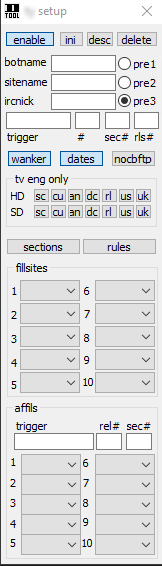
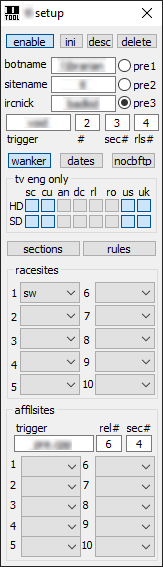
v.8.2.3

Changed region(s): [[0.0, 0.0, 1.0, 1.0], [0.8642, 0.0, 0.9568, 0.03]]

diff --git a/SiteSetup.html b/SiteSetup.html
@@ -153,7 +153,7 @@ aktiviert.<br>
       <strong>- tv eng only</strong><br>
       Hiermit legt man fest was in TV Eng alles geschoben werden darf 
 bzw. worauf es limitiert werden soll. (sc=scripted, cu=current, 
-an=anime, dc=docu, rl=reality, us=USA, uk= UnitedKingdom) </p>
+an=anime, dc=docu, rl=reality, ro=romance, us=USA, uk= UnitedKingdom) </p>
       <p class="normalschrift">- <strong>fillsites/affils</strong><br />
         Hier werden die Sites eingetragen zu denen gefillt werden soll. Wählt man den Eintrag -none- wird die Site wieder entfernt. Wählt man den Eintrag -cb.rmv- wird die Site auch in cbftp von den targets entfernt.<br />
         Bei Affils ist die config  ähnlich wie 
@@ -314,7 +314,7 @@ Eingabefeld stand, doppelt klicken), und entsprechend editieren, dann in
       <p class="normalschrift">&nbsp;</p>
       <p>&nbsp;</p></td>
     <td width="464" valign="top" align="center"><p>&nbsp;</p>
-      <p><img src="SiteSetup-Dateien/menu-site.png" width="162" height="566"></p>
+      <p><img src="SiteSetup-Dateien/menu-site.png" width="163" height="567"></p>
     <p>&nbsp;</p>
     <p><img src="SiteSetup-Dateien/menu-sections.png" width="365" height="567"><br />
       <br />

diff --git a/index.html b/index.html
@@ -143,7 +143,7 @@ body {
       <span class="KleinerText"><a href="https://d--tool-github-io.translate.goog/index.html?_x_tr_sl=de&amp;_x_tr_tl=en&amp;_x_tr_hl=de&amp;_x_tr_pto=wapp" class="helpdesk1"><span class="link-nodecoration-grey-10px"><br />
         <br />
         translate me</span></a></span></p></td>
-    <td width="228" valign="top"><p class="mini_text"><a href="Latest.html" class="link-normal">dt.v.8.1.8</a><br />
+    <td width="228" valign="top"><p class="mini_text"><a href="Latest.html" class="link-normal">dt.v.8.2.3</a><br />
         <br />
         <br />
         <br />
